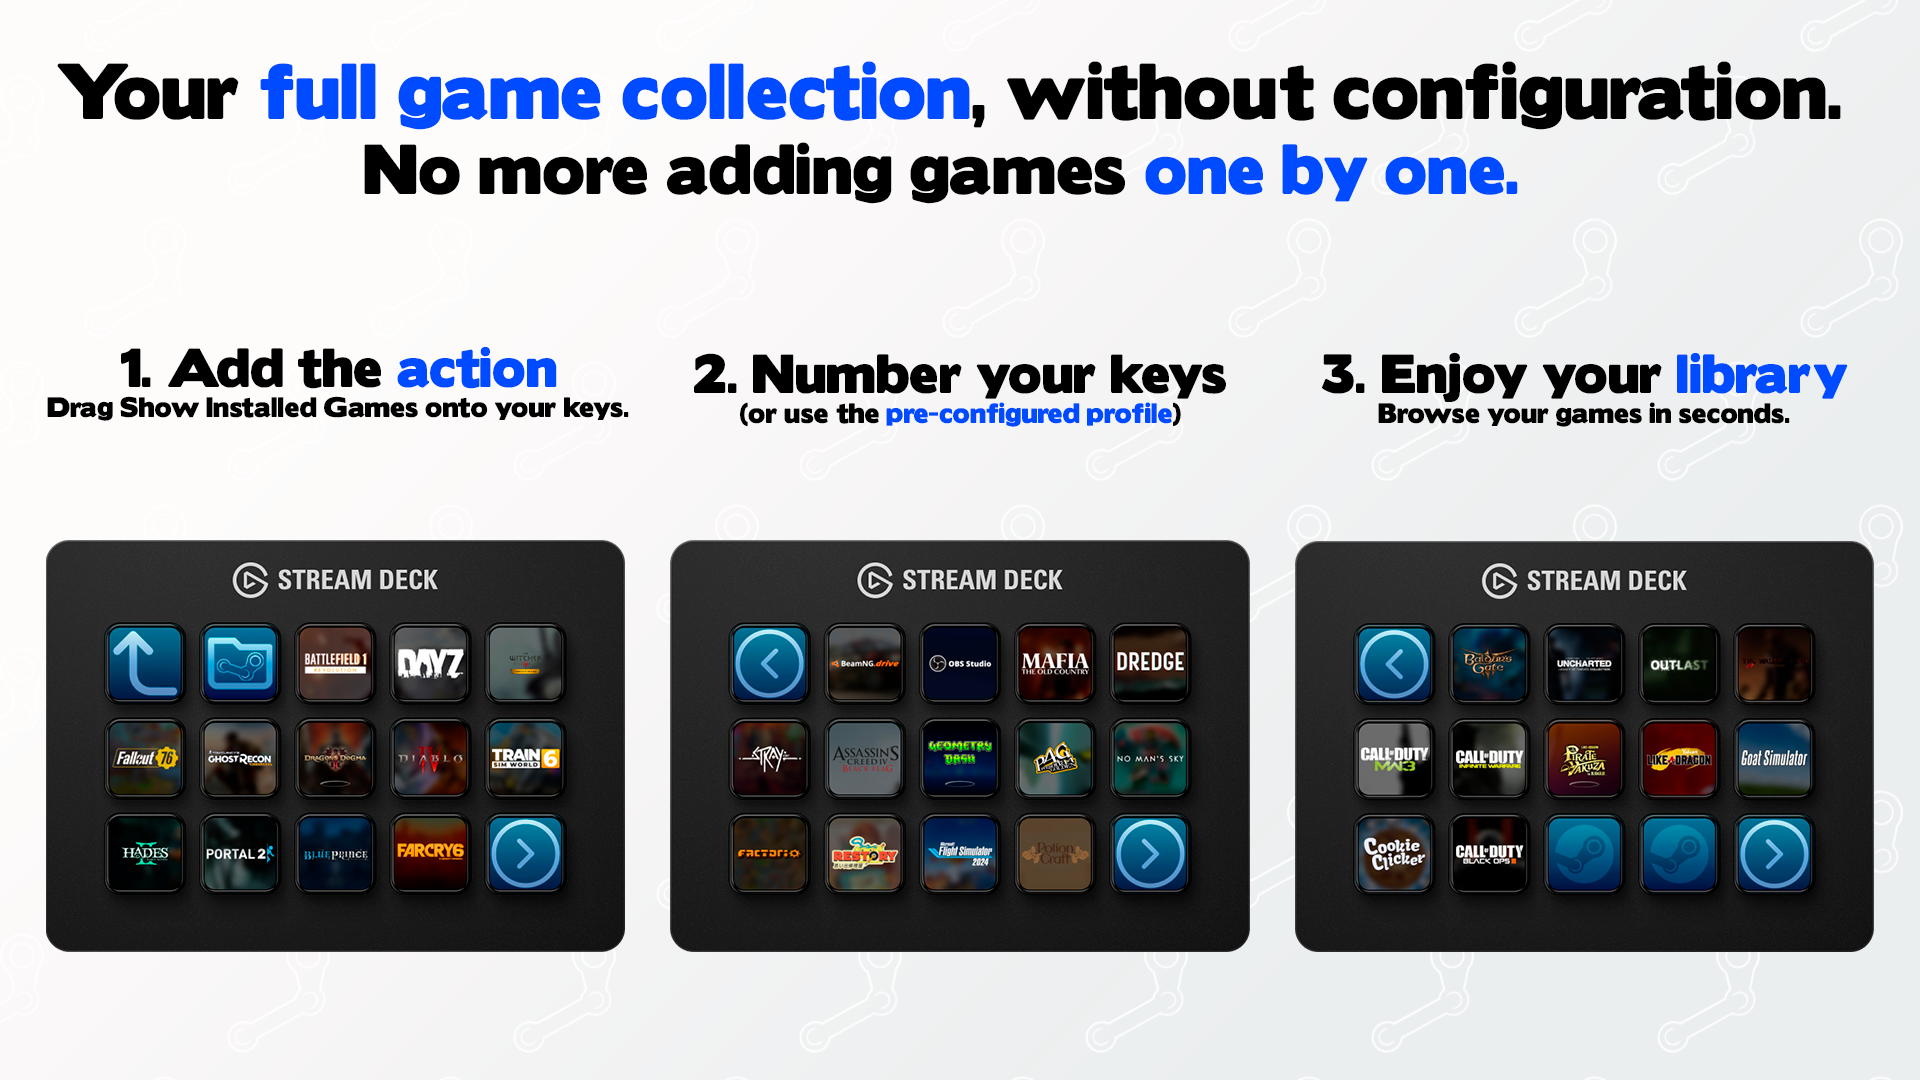
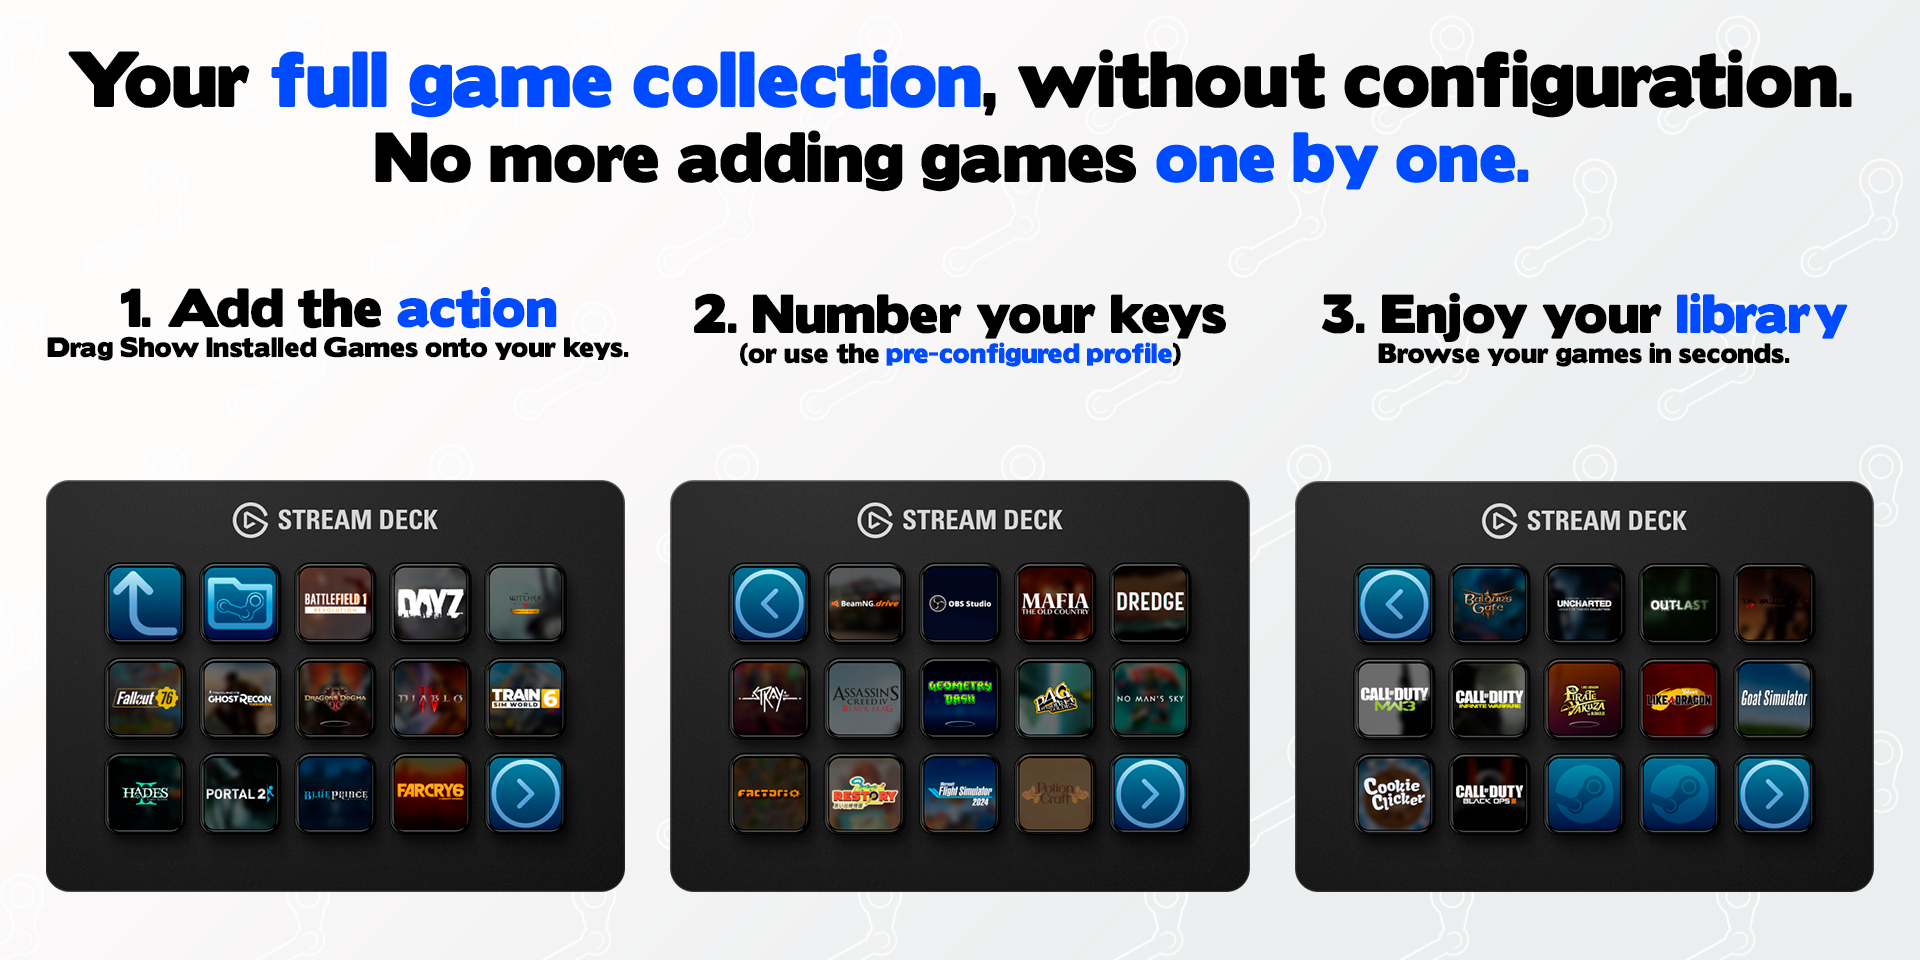
docs: updated previews to match marketplace resolution, updated readme to include marketplace donwload

diff --git a/README.md b/README.md
@@ -20,6 +20,7 @@
   <img src="./docs/previews/1.png" alt="Steam Hub preview">
 </h1>
 
+[![Get it on Marketplace](./docs/previews/marketplace.png "Get Steam Hub on Marketplace")](https://marketplace.elgato.com/product/steam-hub-c85128ab-908f-4a9d-ad79-c909b243c729)
 
 **Steam Hub** turns your Stream Deck into a hub for your Steam library. Every key wears the game's own store art, so a full profile looks like a shelf of your games instead of a wall of generic icons. Fill a profile automatically, launch something at random, keep an eye on whatever's currently running, time your sessions, and jump straight into Big Picture, your friends list, or any other corner of Steam, all without touching your keyboard.
 
@@ -112,16 +113,7 @@ To fill a whole profile with your library, drag **Show Installed Games** onto ev
 
 ## Download
 
-Steam Hub isn't on the Elgato Marketplace yet. For now, build it from source:
-
-```bash
-npm install
-npm run build
-npx streamdeck link com.unai-gonzalez.steam-hub.sdPlugin
-npx streamdeck restart com.unai-gonzalez.steam-hub
-```
-
-See [CONTRIBUTING.md](CONTRIBUTING.md) for the full development setup.
+Get the latest release from the [Stream Deck Marketplace](https://marketplace.elgato.com/product/steam-hub-c85128ab-908f-4a9d-ad79-c909b243c729) or the [GitHub Releases page](https://github.com/unaigonzalezz/steam-hub/releases).
 
 ---
 
